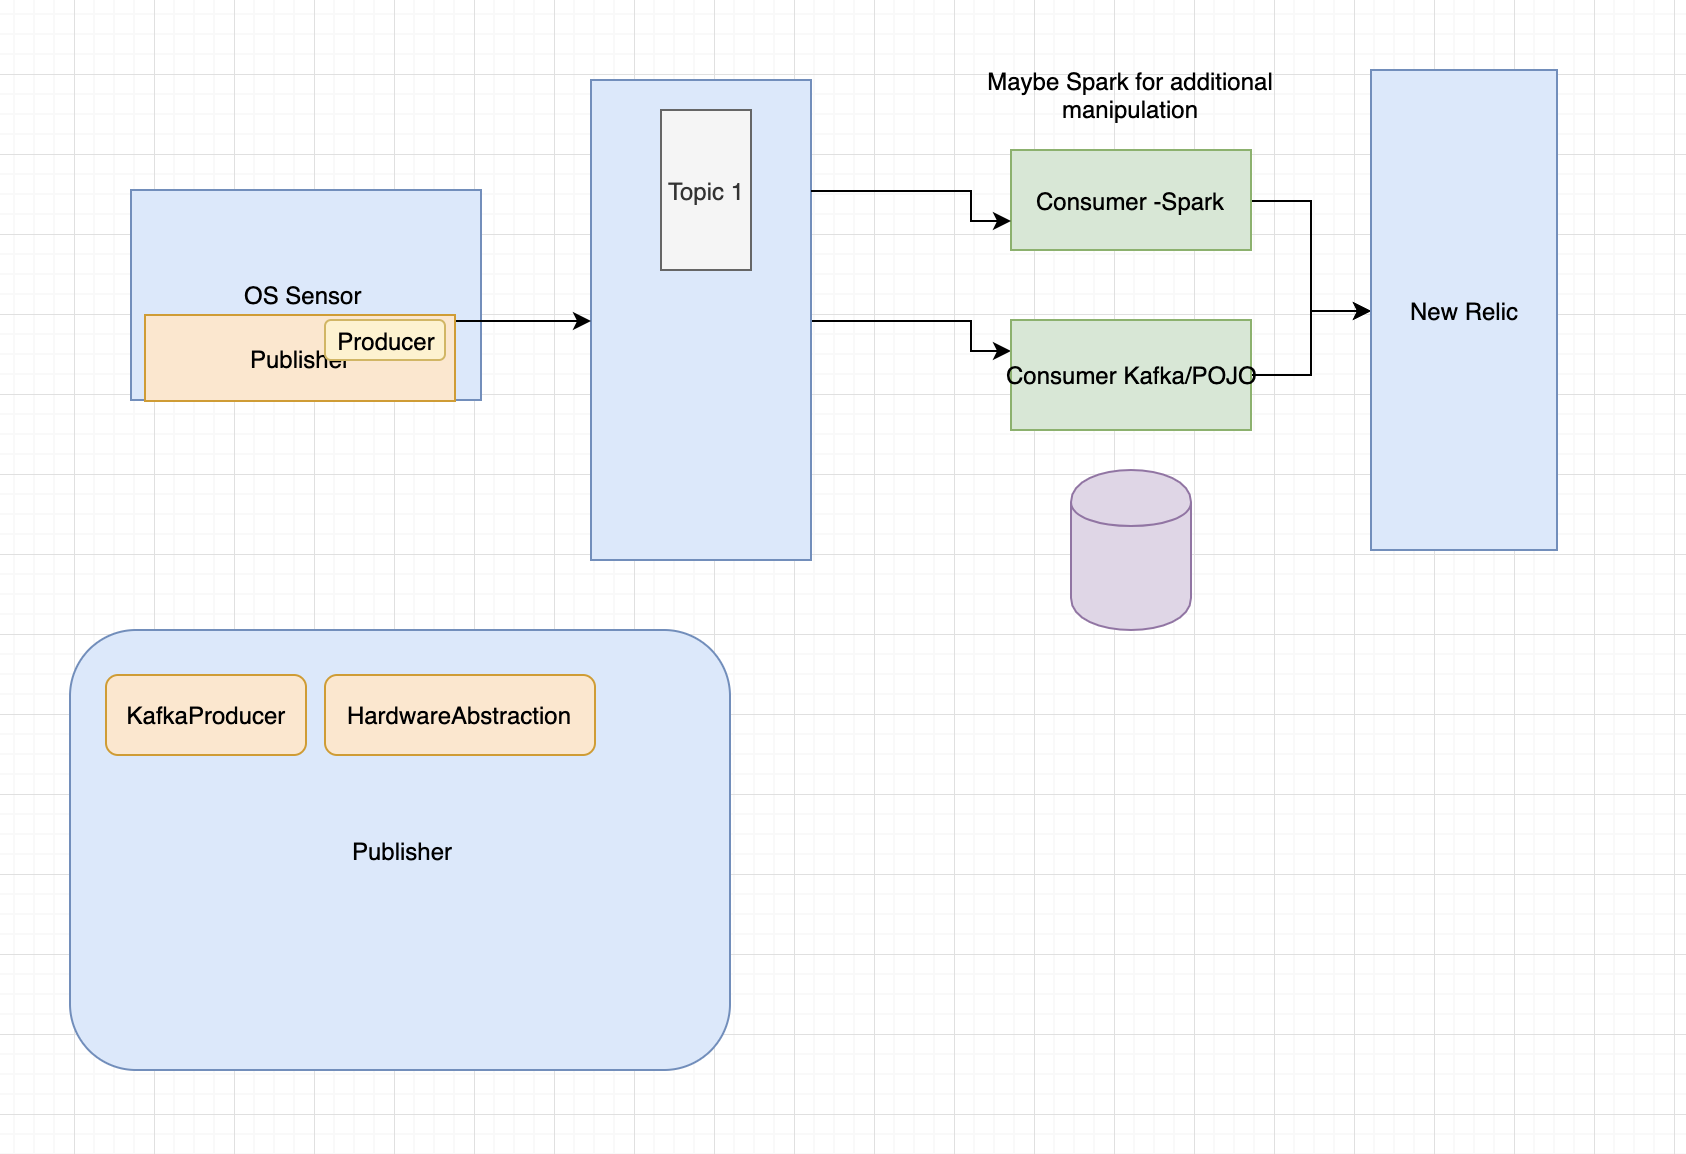
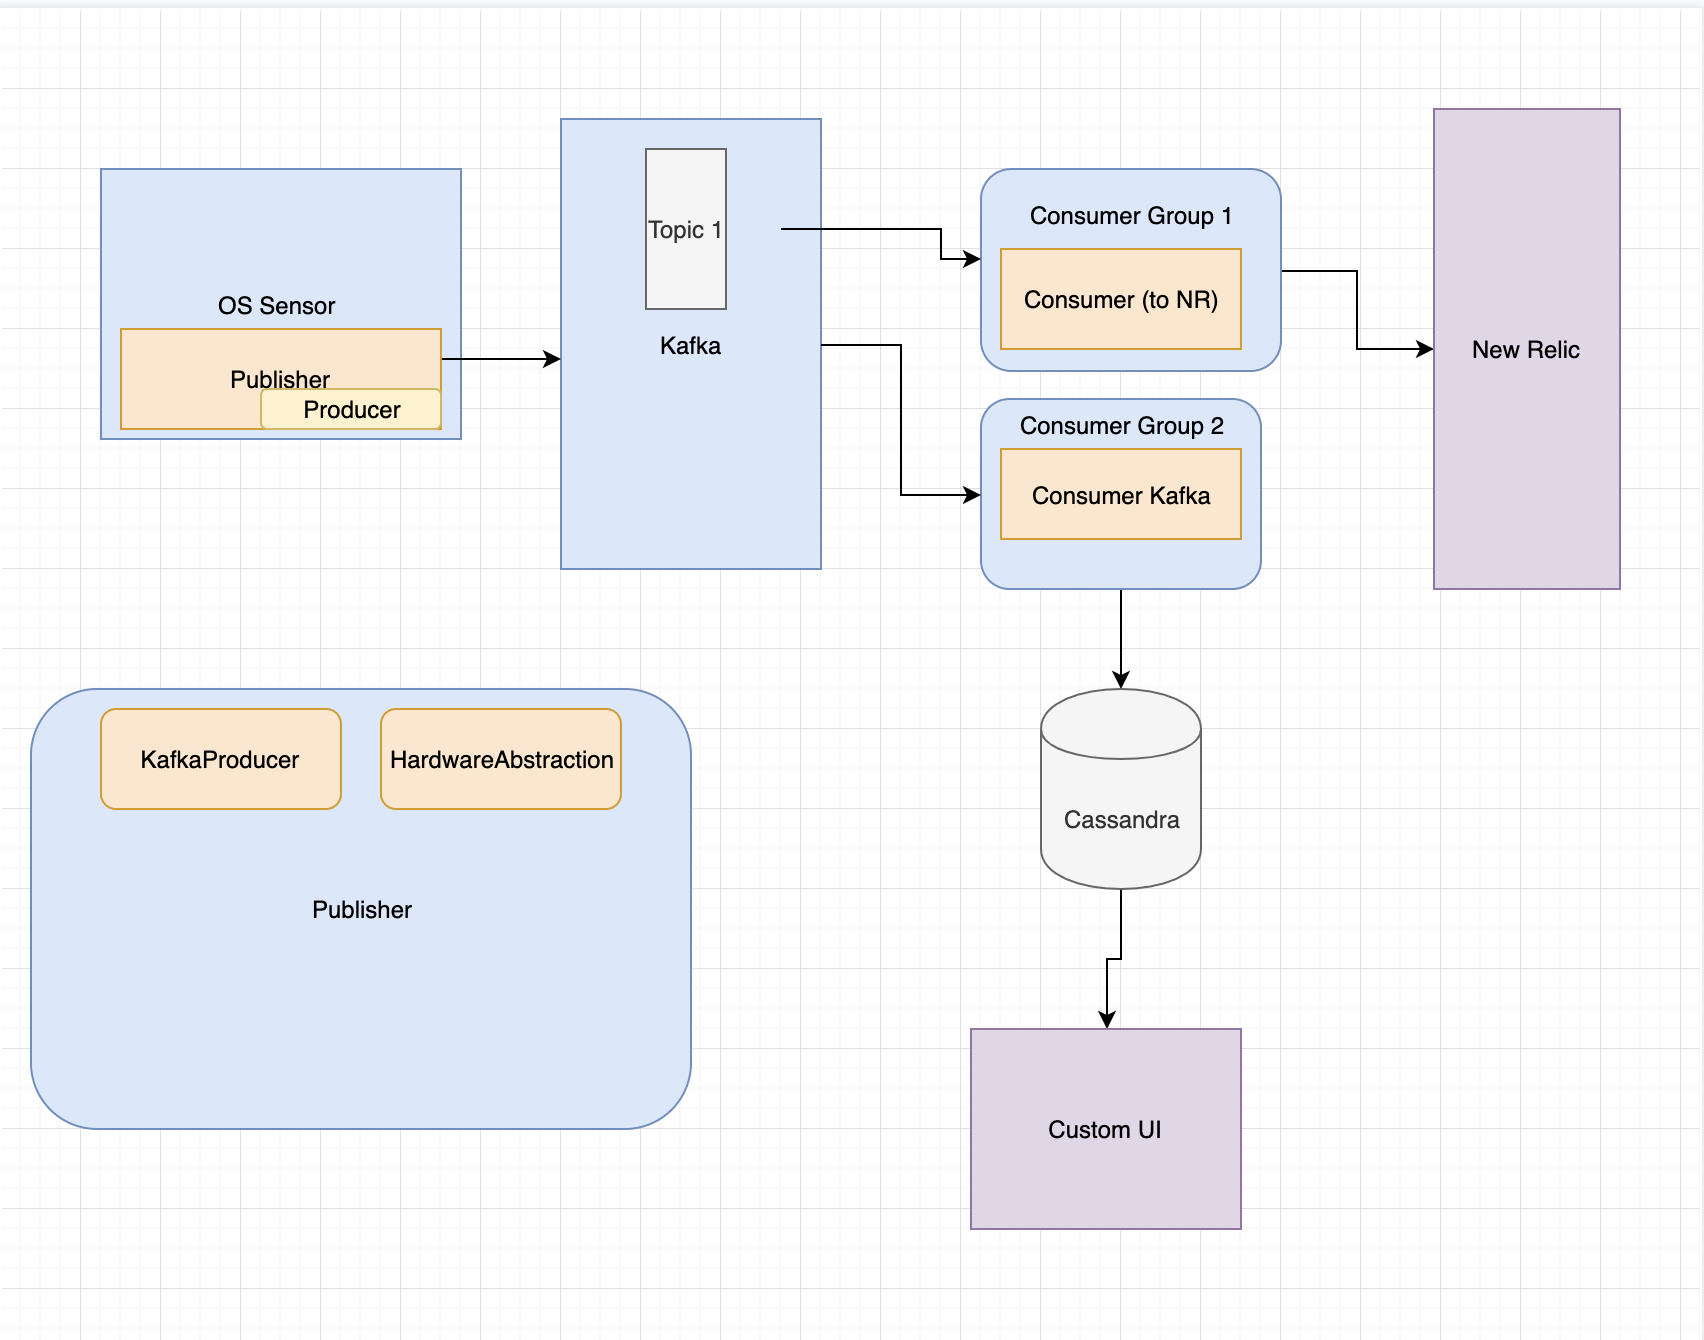
updated architecture diagram and read me

diff --git a/README.md b/README.md
@@ -1,41 +1,30 @@
 # SensorMonitoringService
 
-This diagram is a hint at the direction this project is going.  Much of it is experimental in effort to learn Kafka.
+This diagram is a hint at the direction this project is going (it needs some updates to the consumer layout).  Much of it is experimental in effort to learn Kafka.
 I'll build two different consumers. One will send to New Relic after getting metrics from the Kafka topic.
 The second consumer will be to put metrics into an on-prem style timeseries database.  I'll build a small UI to visualize that data.
 
 ![architecture](images/oshiKafka.png)
 
 
-This service collects hardware information using OSHI APIs
+This service collects hardware information using OSHI APIs that are built into a computer system abstraction. 
 
 Poll each metric once per second for the following metrics:
 
-Fan Speed rpm\n
-CPU Voltage (if provided by the OS)\n
-CPU Temp in F and C\n
+Fan Speed rpm
 
-The main branch is currently (3/21) a proof of concept.  Each metric above is gathered during one method that runs in main.
+CPU Voltage (if provided by the OS)
 
-I need create a design that can be more easily extended.  Check branches for work in progress.
+CPU Temp in C.  Any changes to metrics (i.e. conversions) will be completed on the consumer side.
+Added a Kafka producer to send metrics through Kafka first. 
 
 
-The only dependency as of now (3/21) is oshi-core.
-
-Added a Kafka producer to send metrics through Kafka first.  
 
 Next up is to create a generic consumer and send metrics to a db.
 
 Visualize via DB.
 
 Additionally, will have a second consumer that pulls metrics from topic and sends straight to New Relic.
-
-
-The UI for this is New Relic.  I'm using the Java Agent and custom instrumentation with the ```@Trace``` annotations and ```NewRelic.recordMetric()```.  I may decide to fork oshi core and build the instrumentation directly into core for deeper.
-I could also just use XML or or CIE in NR to get deeper visibility.  Or build a custom extension in-house NR. Which I would not be able to publish here.
-
-
-
 
 
 ![](images/sensordashboard.png)
